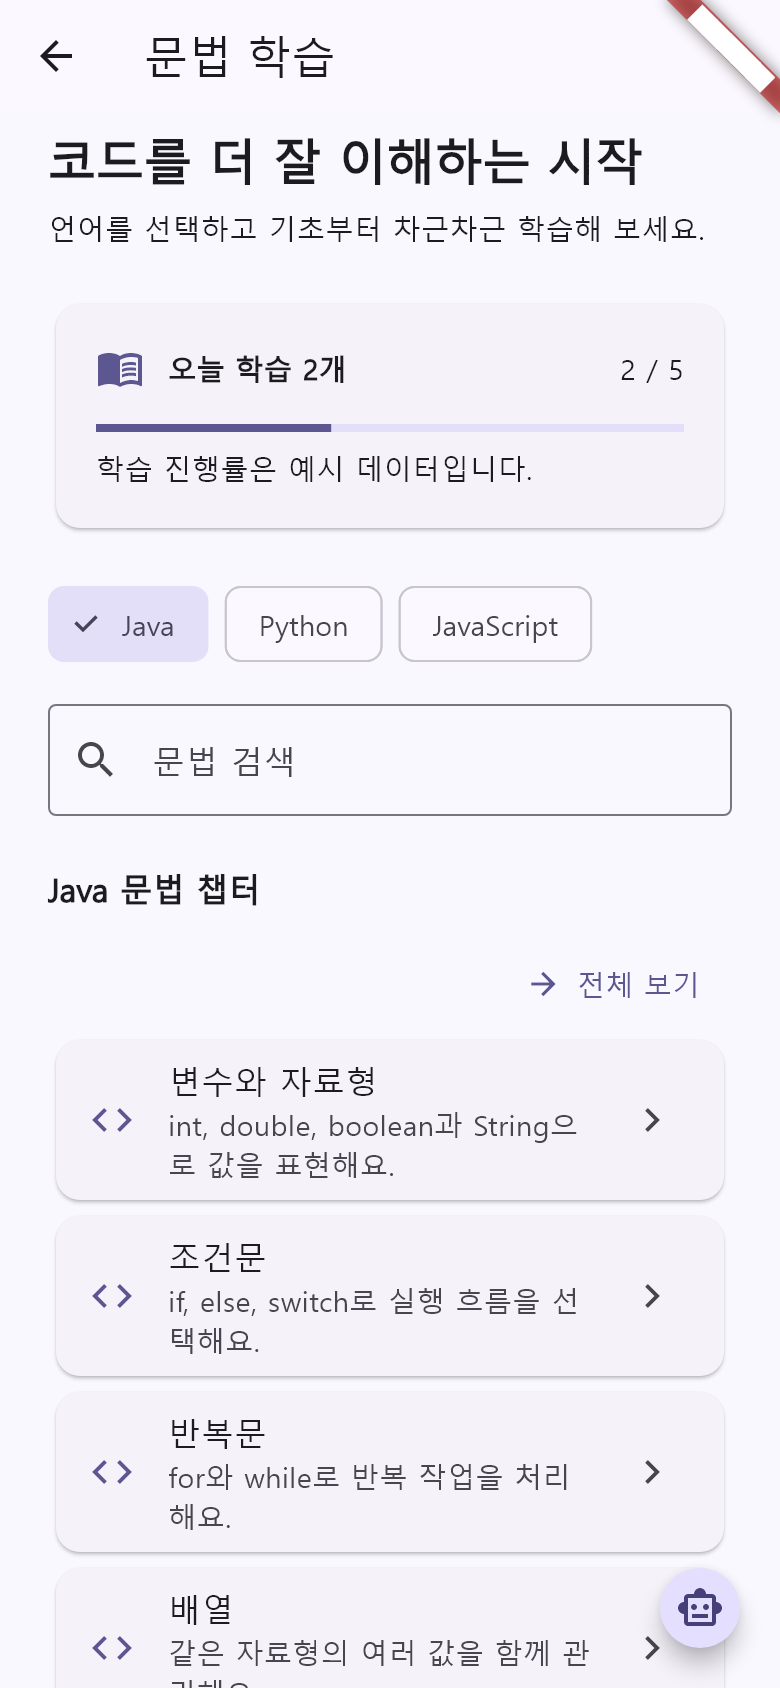
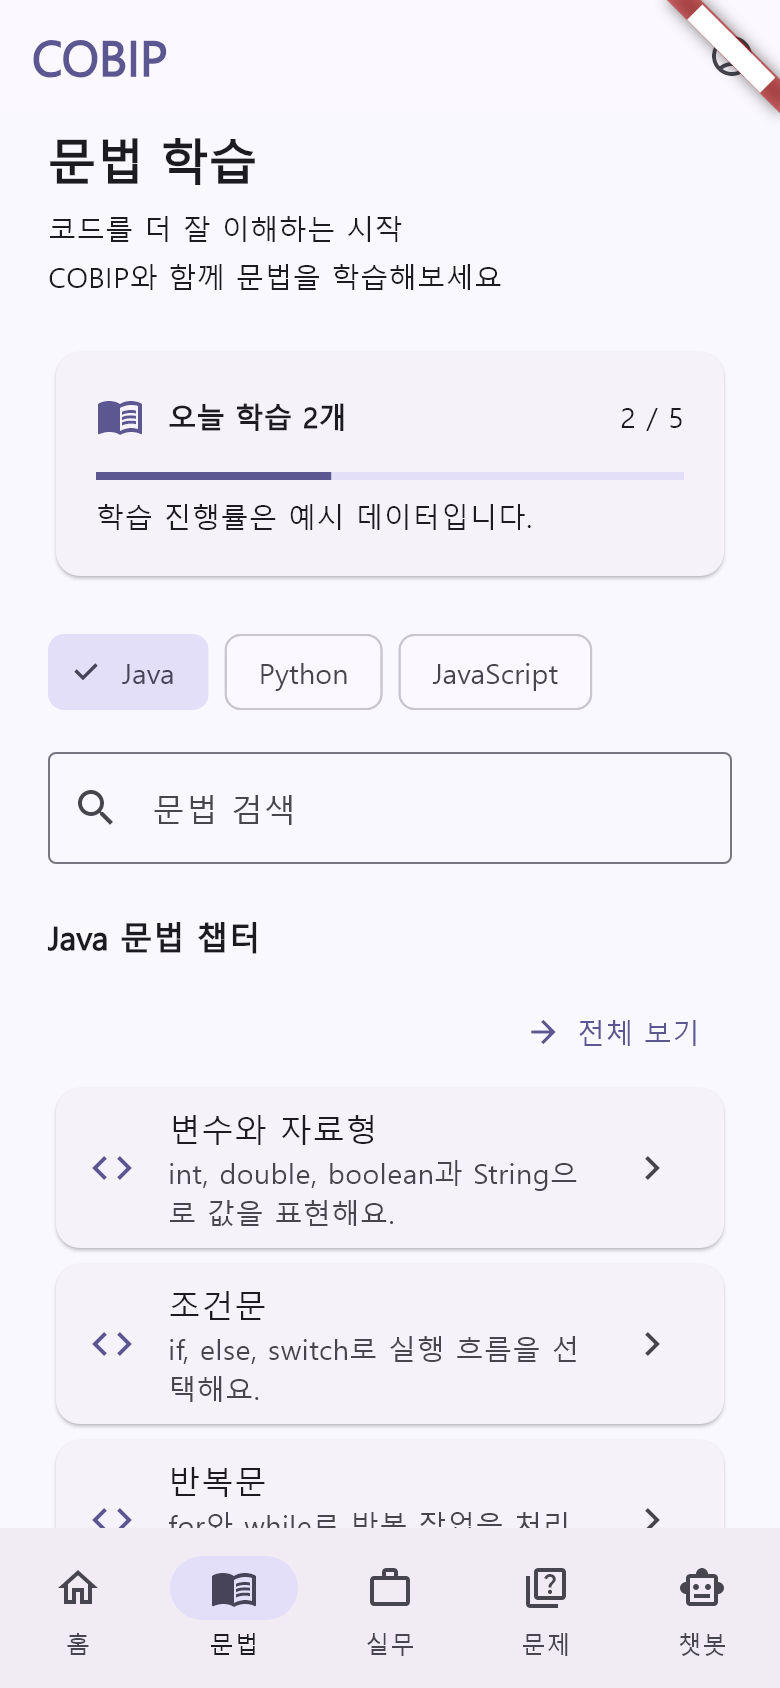
fix: 문법 홈 상하단 메뉴 및 원본 안내 문구 반영

diff --git a/lib/features/grammar/presentation/grammar_scaffold.dart b/lib/features/grammar/presentation/grammar_scaffold.dart
@@ -2,61 +2,99 @@ import 'package:flutter/material.dart';
 import 'package:go_router/go_router.dart';
 
 import '../../../app/router/app_router.dart';
+import '../../../app/widgets/app_bottom_navigation.dart';
 
 class GrammarScaffold extends StatelessWidget {
-  const GrammarScaffold({super.key, required this.title, required this.body});
+  const GrammarScaffold({
+    super.key,
+    required this.title,
+    required this.body,
+    this.isOverview = false,
+  });
 
   final String title;
   final Widget body;
+  final bool isOverview;
 
   @override
   Widget build(BuildContext context) {
     return Scaffold(
-      appBar: AppBar(
-        title: Text(title),
-        leading: IconButton(
-          tooltip: '뒤로가기',
-          icon: const Icon(Icons.arrow_back),
-          onPressed: () {
-            if (context.canPop()) {
-              context.pop();
-            } else {
-              context.goNamed(AppRouteNames.home);
-            }
-          },
-        ),
-      ),
-      body: SafeArea(child: body),
-      floatingActionButton: FloatingActionButton.small(
-        tooltip: 'COBIP 챗봇',
-        shape: const CircleBorder(),
-        onPressed: () => showModalBottomSheet<void>(
-          context: context,
-          showDragHandle: true,
-          builder: (context) => SafeArea(
-            child: Padding(
-              padding: const EdgeInsets.all(24),
-              child: Column(
-                mainAxisSize: MainAxisSize.min,
-                crossAxisAlignment: CrossAxisAlignment.stretch,
-                children: [
-                  Text(
-                    'COBIP 챗봇',
-                    style: Theme.of(context).textTheme.titleLarge,
+      appBar: isOverview
+          ? AppBar(
+              automaticallyImplyLeading: false,
+              title: Text(
+                'COBIP',
+                style: Theme.of(context).textTheme.headlineSmall?.copyWith(
+                  color: Theme.of(context).colorScheme.primary,
+                  fontWeight: FontWeight.w800,
+                ),
+              ),
+              actions: [
+                IconButton(
+                  tooltip: '프로필',
+                  icon: const Icon(Icons.account_circle_outlined),
+                  onPressed: () => ScaffoldMessenger.of(context).showSnackBar(
+                    const SnackBar(
+                      content: Text('마이페이지는 담당 화면 연결 후 이용할 수 있습니다.'),
+                    ),
                   ),
-                  const SizedBox(height: 12),
-                  const Text('챗봇 대화 기능은 준비 중이에요. 학습을 계속 진행해 주세요.'),
-                  const SizedBox(height: 16),
-                  TextButton(
-                    onPressed: () => Navigator.pop(context),
-                    child: const Text('학습 계속하기'),
-                  ),
-                ],
+                ),
+              ],
+            )
+          : AppBar(
+              title: Text(title),
+              leading: IconButton(
+                tooltip: '뒤로가기',
+                icon: const Icon(Icons.arrow_back),
+                onPressed: () {
+                  if (context.canPop()) {
+                    context.pop();
+                  } else {
+                    context.goNamed(AppRouteNames.home);
+                  }
+                },
               ),
             ),
+      body: SafeArea(child: body),
+      bottomNavigationBar: isOverview
+          ? AppBottomNavigation(
+              selectedIndex: 1,
+              onChat: () => _showChat(context),
+            )
+          : null,
+      floatingActionButton: isOverview
+          ? null
+          : FloatingActionButton.small(
+              tooltip: 'COBIP 챗봇',
+              shape: const CircleBorder(),
+              onPressed: () => _showChat(context),
+              child: const Icon(Icons.smart_toy_outlined),
+            ),
+    );
+  }
+
+  void _showChat(BuildContext context) {
+    showModalBottomSheet<void>(
+      context: context,
+      showDragHandle: true,
+      builder: (context) => SafeArea(
+        child: Padding(
+          padding: const EdgeInsets.all(24),
+          child: Column(
+            mainAxisSize: MainAxisSize.min,
+            crossAxisAlignment: CrossAxisAlignment.stretch,
+            children: [
+              Text('COBIP 챗봇', style: Theme.of(context).textTheme.titleLarge),
+              const SizedBox(height: 12),
+              const Text('챗봇 대화 기능은 준비 중이에요. 학습을 계속 진행해 주세요.'),
+              const SizedBox(height: 16),
+              TextButton(
+                onPressed: () => Navigator.pop(context),
+                child: const Text('학습 계속하기'),
+              ),
+            ],
           ),
         ),
-        child: const Icon(Icons.smart_toy_outlined),
       ),
     );
   }

diff --git a/test/grammar_home_test.dart b/test/grammar_home_test.dart
@@ -5,13 +5,24 @@ import 'package:flutter_test/flutter_test.dart';
 
 void main() {
   testWidgets('홈에서 문법으로 이동하고 검색과 언어 선택을 유지한다', (tester) async {
+    tester.view.physicalSize = const Size(390, 844);
+    tester.view.devicePixelRatio = 1;
+    addTearDown(tester.view.resetPhysicalSize);
+    addTearDown(tester.view.resetDevicePixelRatio);
     appRouter.go('/home');
     await tester.pumpWidget(const CobipApp());
     await tester.pumpAndSettle();
     await tester.tap(find.text('문법'));
     await tester.pumpAndSettle();
     expect(find.text('문법 학습'), findsOneWidget);
-    expect(find.byType(NavigationBar), findsNothing);
+    expect(
+      tester.widget<NavigationBar>(find.byType(NavigationBar)).selectedIndex,
+      1,
+    );
+    expect(find.text('COBIP'), findsOneWidget);
+    expect(find.text('코드를 더 잘 이해하는 시작'), findsOneWidget);
+    expect(find.text('COBIP와 함께 문법을 학습해보세요'), findsOneWidget);
+    expect(find.byType(FloatingActionButton), findsNothing);
 
     await tester.tap(find.text('Python'));
     await tester.enterText(find.byType(TextField), 'elif');
@@ -19,7 +30,7 @@ void main() {
     expect(find.text('조건문'), findsOneWidget);
     expect(find.text('변수와 자료형'), findsNothing);
 
-    await tester.tap(find.byTooltip('COBIP 챗봇'));
+    await tester.tap(find.text('챗봇'));
     await tester.pumpAndSettle();
     await tester.tap(find.text('학습 계속하기'));
     await tester.pumpAndSettle();
@@ -33,8 +44,11 @@ void main() {
     await tester.pumpAndSettle();
     expect(find.text('변수와 자료형'), findsOneWidget);
 
-    await tester.tap(find.byTooltip('뒤로가기'));
+    await tester.tap(find.text('홈'));
     await tester.pumpAndSettle();
-    expect(find.byType(NavigationBar), findsOneWidget);
+    expect(
+      tester.widget<NavigationBar>(find.byType(NavigationBar)).selectedIndex,
+      0,
+    );
   });
 }

diff --git a/lib/app/widgets/app_bottom_navigation.dart b/lib/app/widgets/app_bottom_navigation.dart
@@ -1,0 +1,63 @@
+import 'package:flutter/material.dart';
+import 'package:go_router/go_router.dart';
+
+import '../router/app_router.dart';
+
+class AppBottomNavigation extends StatelessWidget {
+  const AppBottomNavigation({
+    super.key,
+    required this.selectedIndex,
+    required this.onChat,
+  });
+
+  final int selectedIndex;
+  final VoidCallback onChat;
+
+  @override
+  Widget build(BuildContext context) {
+    return NavigationBar(
+      selectedIndex: selectedIndex,
+      onDestinationSelected: (index) {
+        if (index == selectedIndex) return;
+        switch (index) {
+          case 0:
+            if (context.canPop()) {
+              context.pop();
+            } else {
+              context.goNamed(AppRouteNames.home);
+            }
+          case 1:
+            context.pushNamed(AppRouteNames.grammar);
+          case 4:
+            onChat();
+          default:
+            ScaffoldMessenger.of(context).showSnackBar(
+              SnackBar(
+                content: Text(
+                  index == 2 ? '실무 학습 화면은 준비 중이에요.' : '문제 화면은 준비 중이에요.',
+                ),
+              ),
+            );
+        }
+      },
+      destinations: const [
+        NavigationDestination(
+          icon: Icon(Icons.home_outlined),
+          selectedIcon: Icon(Icons.home),
+          label: '홈',
+        ),
+        NavigationDestination(
+          icon: Icon(Icons.menu_book_outlined),
+          selectedIcon: Icon(Icons.menu_book),
+          label: '문법',
+        ),
+        NavigationDestination(icon: Icon(Icons.work_outline), label: '실무'),
+        NavigationDestination(icon: Icon(Icons.quiz_outlined), label: '문제'),
+        NavigationDestination(
+          icon: Icon(Icons.smart_toy_outlined),
+          label: '챗봇',
+        ),
+      ],
+    );
+  }
+}

diff --git a/lib/features/home/presentation/home_screen.dart b/lib/features/home/presentation/home_screen.dart
@@ -2,6 +2,7 @@ import 'package:flutter/material.dart';
 import 'package:go_router/go_router.dart';
 
 import '../../../app/router/app_router.dart';
+import '../../../app/widgets/app_bottom_navigation.dart';
 
 enum HomeContentState { loading, empty, loaded, error }
 
@@ -99,36 +100,9 @@ class _HomeScreenState extends State<HomeScreen> {
           ],
         ),
       ),
-      bottomNavigationBar: NavigationBar(
+      bottomNavigationBar: AppBottomNavigation(
         selectedIndex: 0,
-        onDestinationSelected: (index) {
-          if (index == 4) {
-            _showChat();
-          } else if (index == 1) {
-            context.pushNamed(AppRouteNames.grammar);
-          } else if (index == 2) {
-            _showMessage('실무 학습 화면은 준비 중이에요.');
-          } else if (index != 0) {
-            _showMessage('해당 화면은 담당 팀과 연결 후 이용할 수 있습니다.');
-          }
-        },
-        destinations: const [
-          NavigationDestination(
-            icon: Icon(Icons.home_outlined),
-            selectedIcon: Icon(Icons.home),
-            label: '홈',
-          ),
-          NavigationDestination(
-            icon: Icon(Icons.menu_book_outlined),
-            label: '문법',
-          ),
-          NavigationDestination(icon: Icon(Icons.work_outline), label: '실무'),
-          NavigationDestination(icon: Icon(Icons.quiz_outlined), label: '문제'),
-          NavigationDestination(
-            icon: Icon(Icons.smart_toy_outlined),
-            label: '챗봇',
-          ),
-        ],
+        onChat: _showChat,
       ),
     );
   }

diff --git a/lib/features/grammar/presentation/grammar_home_screen.dart b/lib/features/grammar/presentation/grammar_home_screen.dart
@@ -45,16 +45,19 @@ class _GrammarHomeScreenState extends State<GrammarHomeScreen> {
 
     return GrammarScaffold(
       title: '문법 학습',
+      isOverview: true,
       body: ListView(
-        padding: const EdgeInsets.fromLTRB(24, 8, 24, 88),
+        padding: const EdgeInsets.fromLTRB(24, 8, 24, 24),
         children: [
           Text(
-            '코드를 더 잘 이해하는 시작',
+            '문법 학습',
             style: Theme.of(context).textTheme.headlineSmall
                 ?.copyWith(fontWeight: FontWeight.bold),
           ),
           const SizedBox(height: 8),
-          const Text('언어를 선택하고 기초부터 차근차근 학습해 보세요.'),
+          const Text('코드를 더 잘 이해하는 시작'),
+          const SizedBox(height: 4),
+          const Text('COBIP와 함께 문법을 학습해보세요'),
           const SizedBox(height: 24),
           Card(
             child: Padding(

diff --git a/test/grammar_chapters_test.dart b/test/grammar_chapters_test.dart
@@ -32,6 +32,10 @@ void main() {
 
     await tester.tap(find.byTooltip('뒤로가기'));
     await tester.pumpAndSettle();
+    expect(
+      tester.widget<NavigationBar>(find.byType(NavigationBar)).selectedIndex,
+      1,
+    );
     expect(find.text('elif'), findsOneWidget);
     expect(find.text('Python 문법 챕터'), findsOneWidget);
     await tester.ensureVisible(find.text('전체 보기'));

diff --git a/docs/grammar-screens.md b/docs/grammar-screens.md
@@ -7,9 +7,11 @@
   `실무`는 화면 구현 전까지 준비 중 안내를 표시합니다.
 - Java / Python / JavaScript 선택, 제목·설명 검색, 오늘 학습 진행률을 표시합니다.
 - 검색 결과가 없으면 안내하고 검색어를 지울 수 있습니다.
-- 하단 메뉴는 숨기고 우측 하단 원형 챗봇 버튼을 표시합니다.
+- COBIP 상단 바와 하단 메뉴를 유지하며 `문법` 메뉴를 선택 상태로 표시합니다.
+- 제목과 소개는 `문법 학습`, `코드를 더 잘 이해하는 시작`, `COBIP와 함께 문법을 학습해보세요` 순서로 표시합니다.
+- 문법 홈의 챗봇은 하단 메뉴에서 열고 원형 버튼은 챕터 화면부터 표시합니다.
 - 챗봇은 준비 안내만 제공하며 닫으면 검색·언어 선택을 유지합니다.
-- 뒤로가기는 홈으로 복귀합니다. 직접 경로로 진입해도 홈으로 돌아갑니다.
+- 하단 `홈`을 누르면 홈으로 복귀합니다. 직접 경로로 진입해도 홈으로 돌아갑니다.
 
 ## 2. 챕터 목록 (`/grammar/:language/chapters`)
 
@@ -20,7 +22,7 @@
 - 개념 화면은 후속 PR 범위이므로 목록 카드에는 아직 상세 진입 버튼을 두지 않습니다.
 - 뒤로 돌아오면 문법 홈의 검색어·언어 선택을 유지합니다.
 - 잘못된 언어 경로는 문법 홈으로 복귀하고 잘못된 카테고리는 전체 목록으로 처리합니다.
-- 학습 하단 바는 표시하지 않으며 챗봇 원형 버튼은 문법 홈과 동일합니다.
+- 챕터 화면에 진입하면 하단 바를 숨기고 뒤로가기와 챗봇 원형 버튼을 표시합니다.
 
 ## 임시 데이터
 
